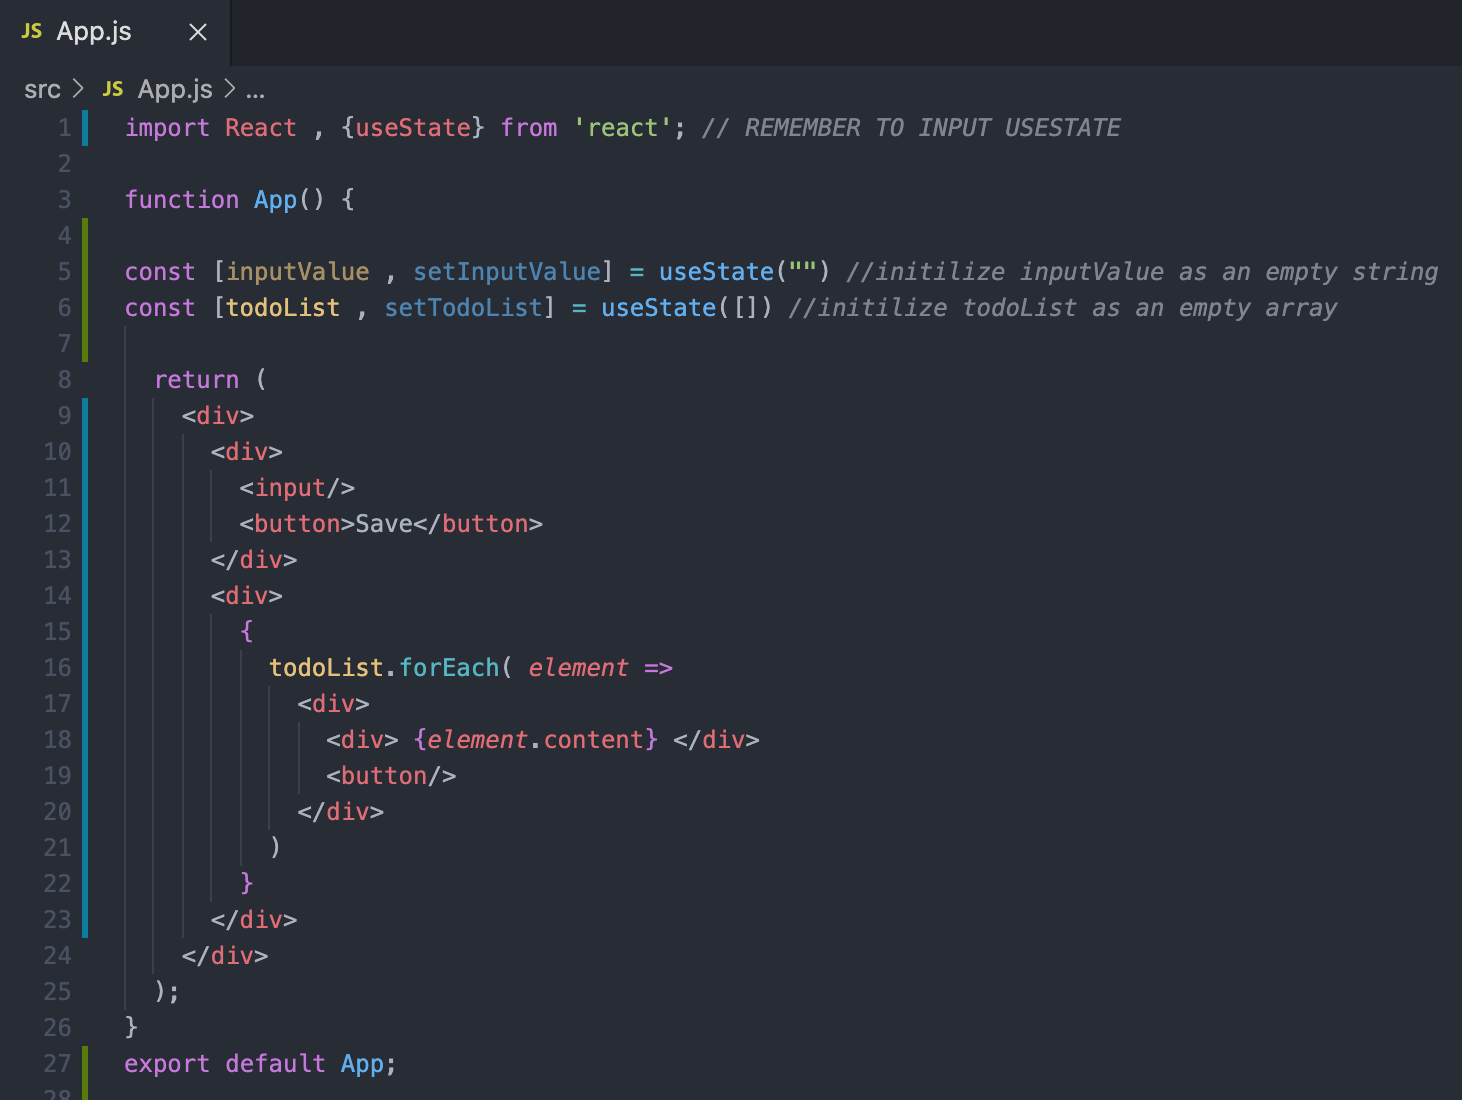
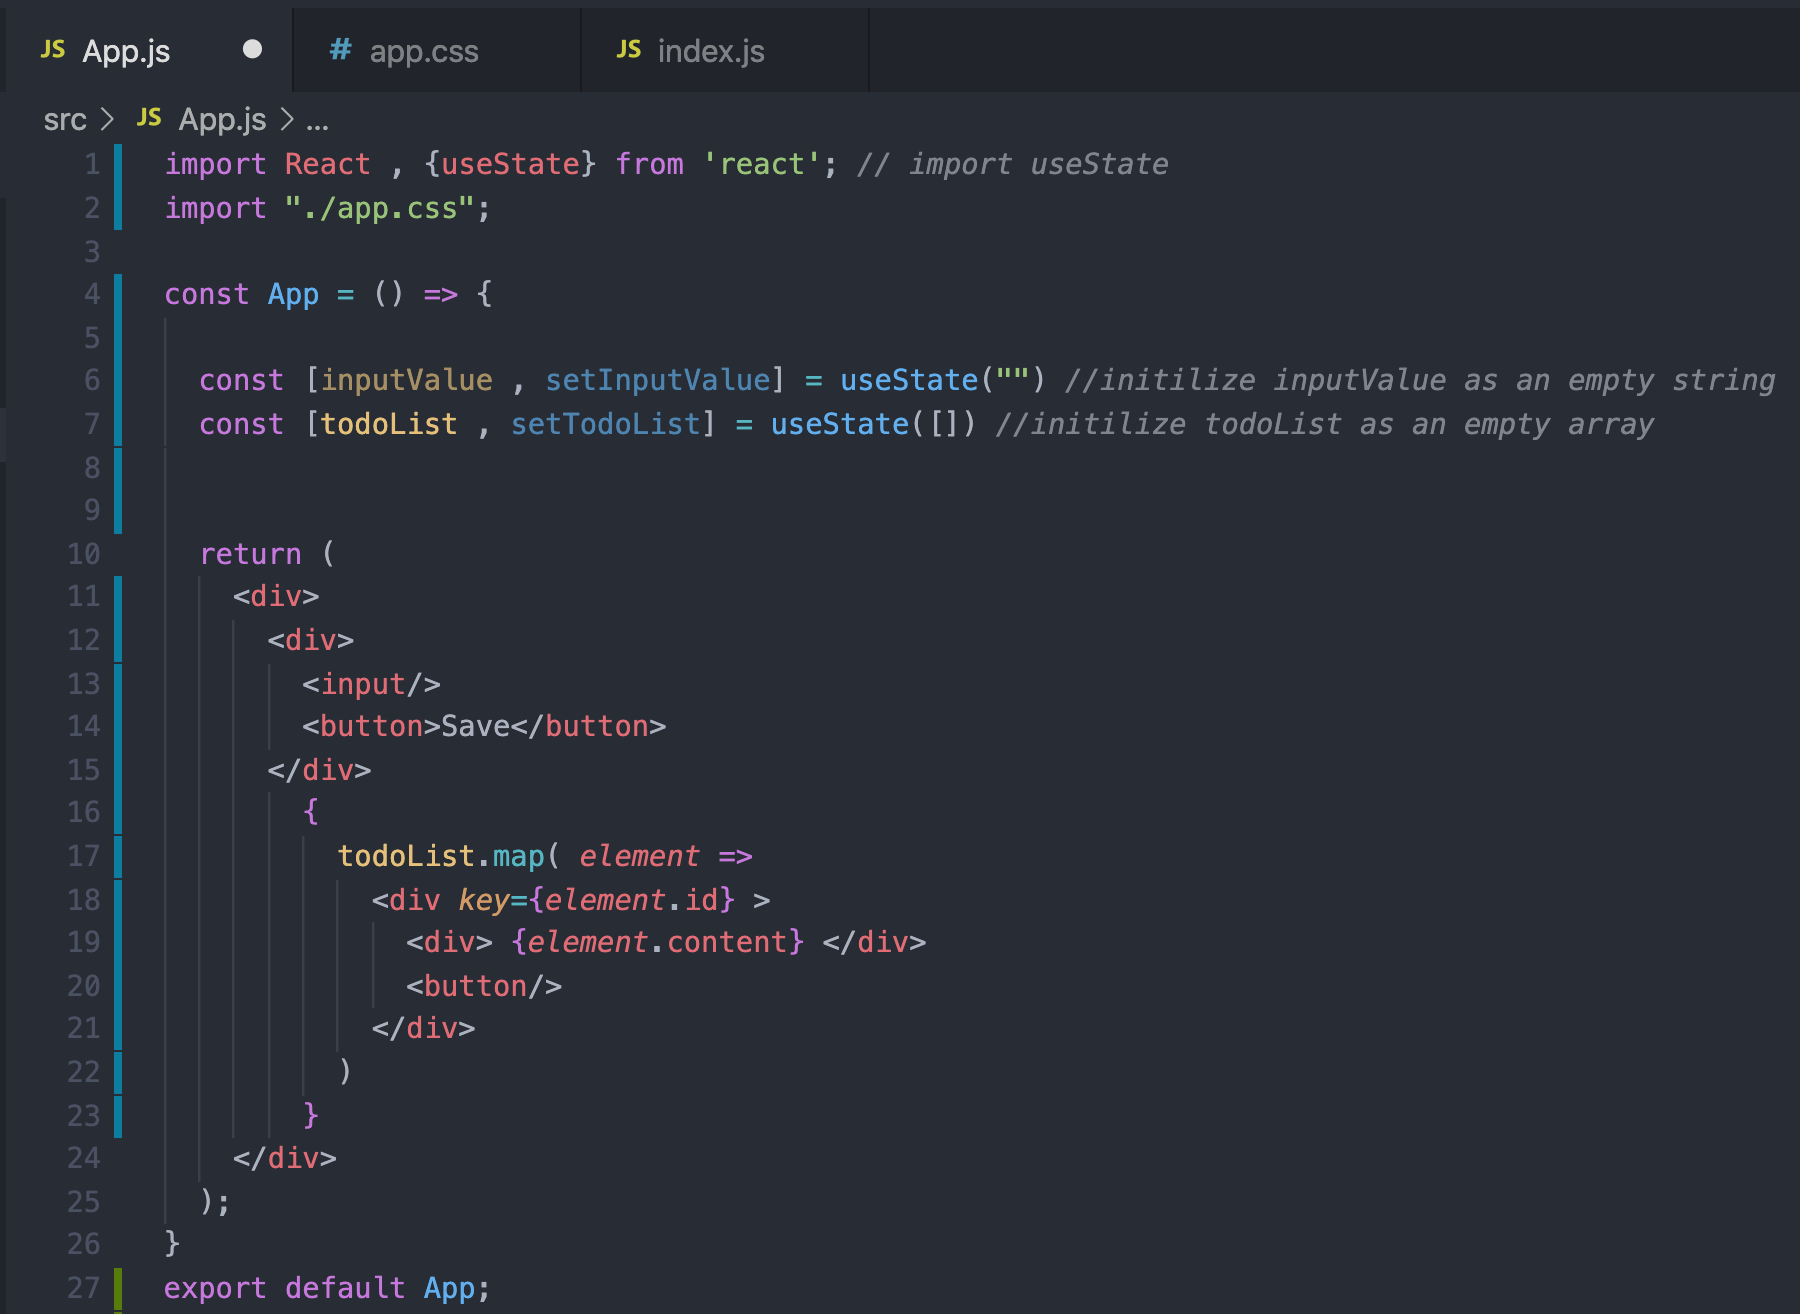
edited readme

diff --git a/todo-app/src/App.js b/todo-app/src/App.js
@@ -7,7 +7,7 @@ function App() {
   const [ todoList , updateTodoList ] = useState([])
 
   const [ textInputValue , updateTextInputValue ] = useState("")
-  console.log( todoList )
+
   const onChangeTextInput = (e) => {
     updateTextInputValue(e.target.value)
   }

diff --git a/README.md b/README.md
@@ -512,6 +512,7 @@ The image shows how the app will look like. We have 3 main big containers.
 <br/>
 In HTML code
 <br/>
+
 ```html
 <div>
   <div> For the input and save button </div>
@@ -521,6 +522,7 @@ In HTML code
 <br/>
 In React
 <br/>
+
 ```js
 const myComponent = (props) => {
   return(
@@ -593,7 +595,7 @@ const [todoList , setTodoList] = useState([]) //initilize todoList as an empty a
 <br/>
 So whenever, we type something, it gets stored into inputValue and then when we save, it gets stored into todoList.
 <br/>
-Now for the Reminder content, we do not want to keep manually adding divs as the todoList increases, we can use a loop to assits us.
+Now for the Reminder content, we do not want to keep manually adding divs as the todoList increases, we can use a loop to assit us.
 <br/>
 
 ```js
@@ -606,7 +608,7 @@ const myComponent = (props) => {
       </div>
       <div> 
         {
-          todoList.forEach( element =>
+          todoList.map( element =>
             <div>
               <div> {element.content} </div>
               <button/>
@@ -660,7 +662,7 @@ Lets code our the functions
   const saveWhatIType = () => {
     // Create an object that represents what the new todo task entry will look like
     let newContent = {
-      id: math.random.toString().replace("0.",""),
+      id: math.random().toString().replace("0.",""),
       content: inputValue.trim()
     }
   
@@ -701,7 +703,7 @@ After adding the function to your app.js, it should look like
 I would like to bring the focus now to the event handlers on the JSX code
 <br/>
 
-```js
+```html
 <div>
   <div> 
     <input onChange={displayWhatIType} value={inputValue} /> <!--When input is changing (user typing), run displayWhatIType function -->
@@ -731,4 +733,55 @@ I would like to bring the focus now to the event handlers on the JSX code
 
 <a name="demo/css)"></a>
 ## Setting up CSS
+We first need give class names to our JSX elements.
+<br/>
 
+```js
+  return (
+    <div className="thisIsACol">
+      <div className="thisIsARow" > 
+        <input onChange={displayWhatIType} value={inputValue} />
+        <button onClick={saveWhatIType} >Save</button>
+      </div>
+      <div className="thisIsACol"> 
+        {
+          todoList.forEach( (element) =>
+            <div className="thisIsARow">
+              <div> {element.content} </div>
+              <button onClick={()=>deleteThisTodo(element.id)} />
+            </div>
+          )
+        }
+      </div>
+    </div>
+  );
+```
+<br/>
+Now your file looks like this
+<br/>
+<img src="./readmeAssets/classname.png" width="600"/>
+<br/><br/>
+Notice how we split up the containers that should act as a row or column. This means we can code 1 css class with that particular property and apply it anywhere else. This is a design prinipal you should try to apply as often as possible.
+
+<br/><br/>
+Let's create a new css file named `app.css`
+<br/>
+<img src="./readmeAssets/appcssfile.png" width="600"/>
+<br/>
+Let's add the css properties like this
+<br/>
+
+```css
+.thisIsARow{
+    display: flex;  /* enable flex */ 
+    flex-direction: row; /* act as a row */ 
+    justify-content: space-around; /* in the main axis (x axis), evenly space my content */ 
+    align-content: center; /* in the other axis (y axis), center my content */ 
+}
+.thisIsACol{
+    display: flex; /* enable flex */ 
+    flex-direction: row; /* act as a row */ 
+    justify-content: space-around; /* in the main axis (y axis), evenly space my content */ 
+    align-content: center; /* in the other axis (x axis), center my content */
+}
+```
